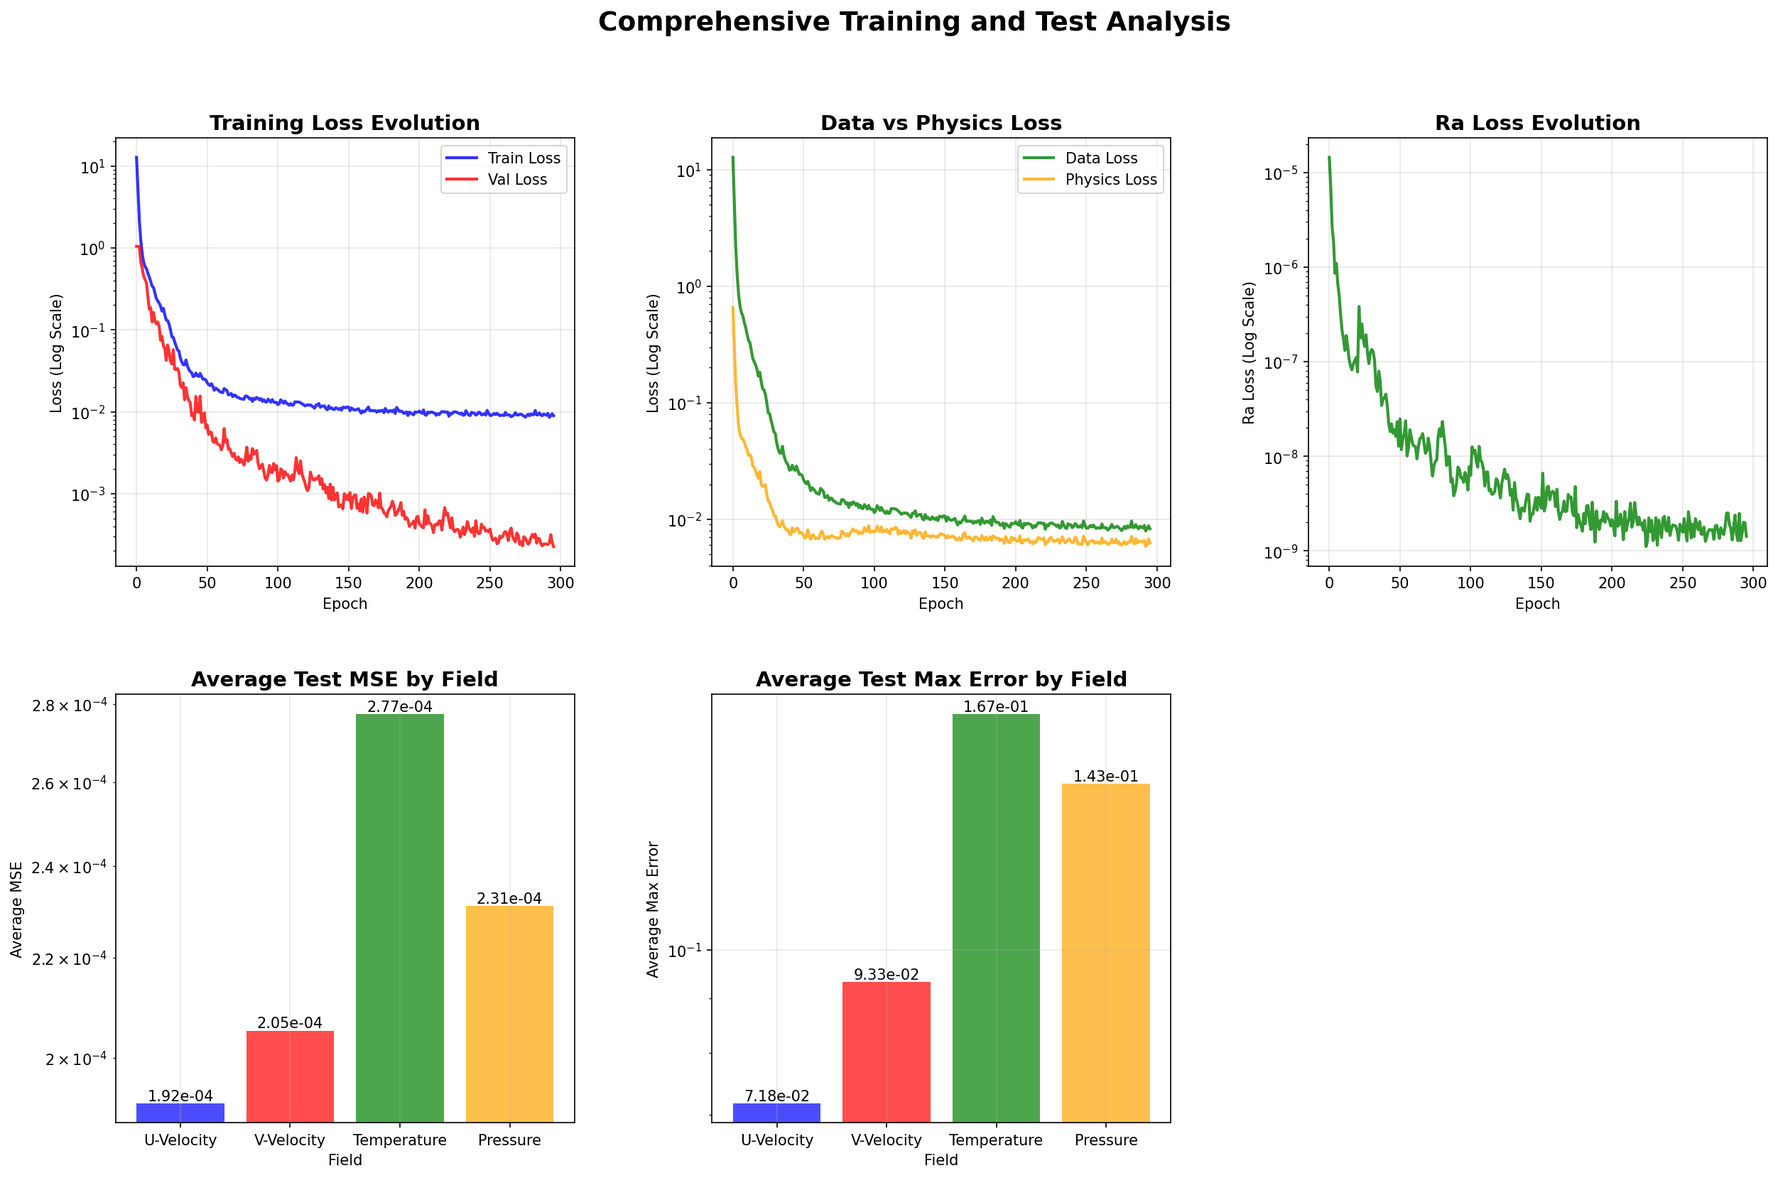
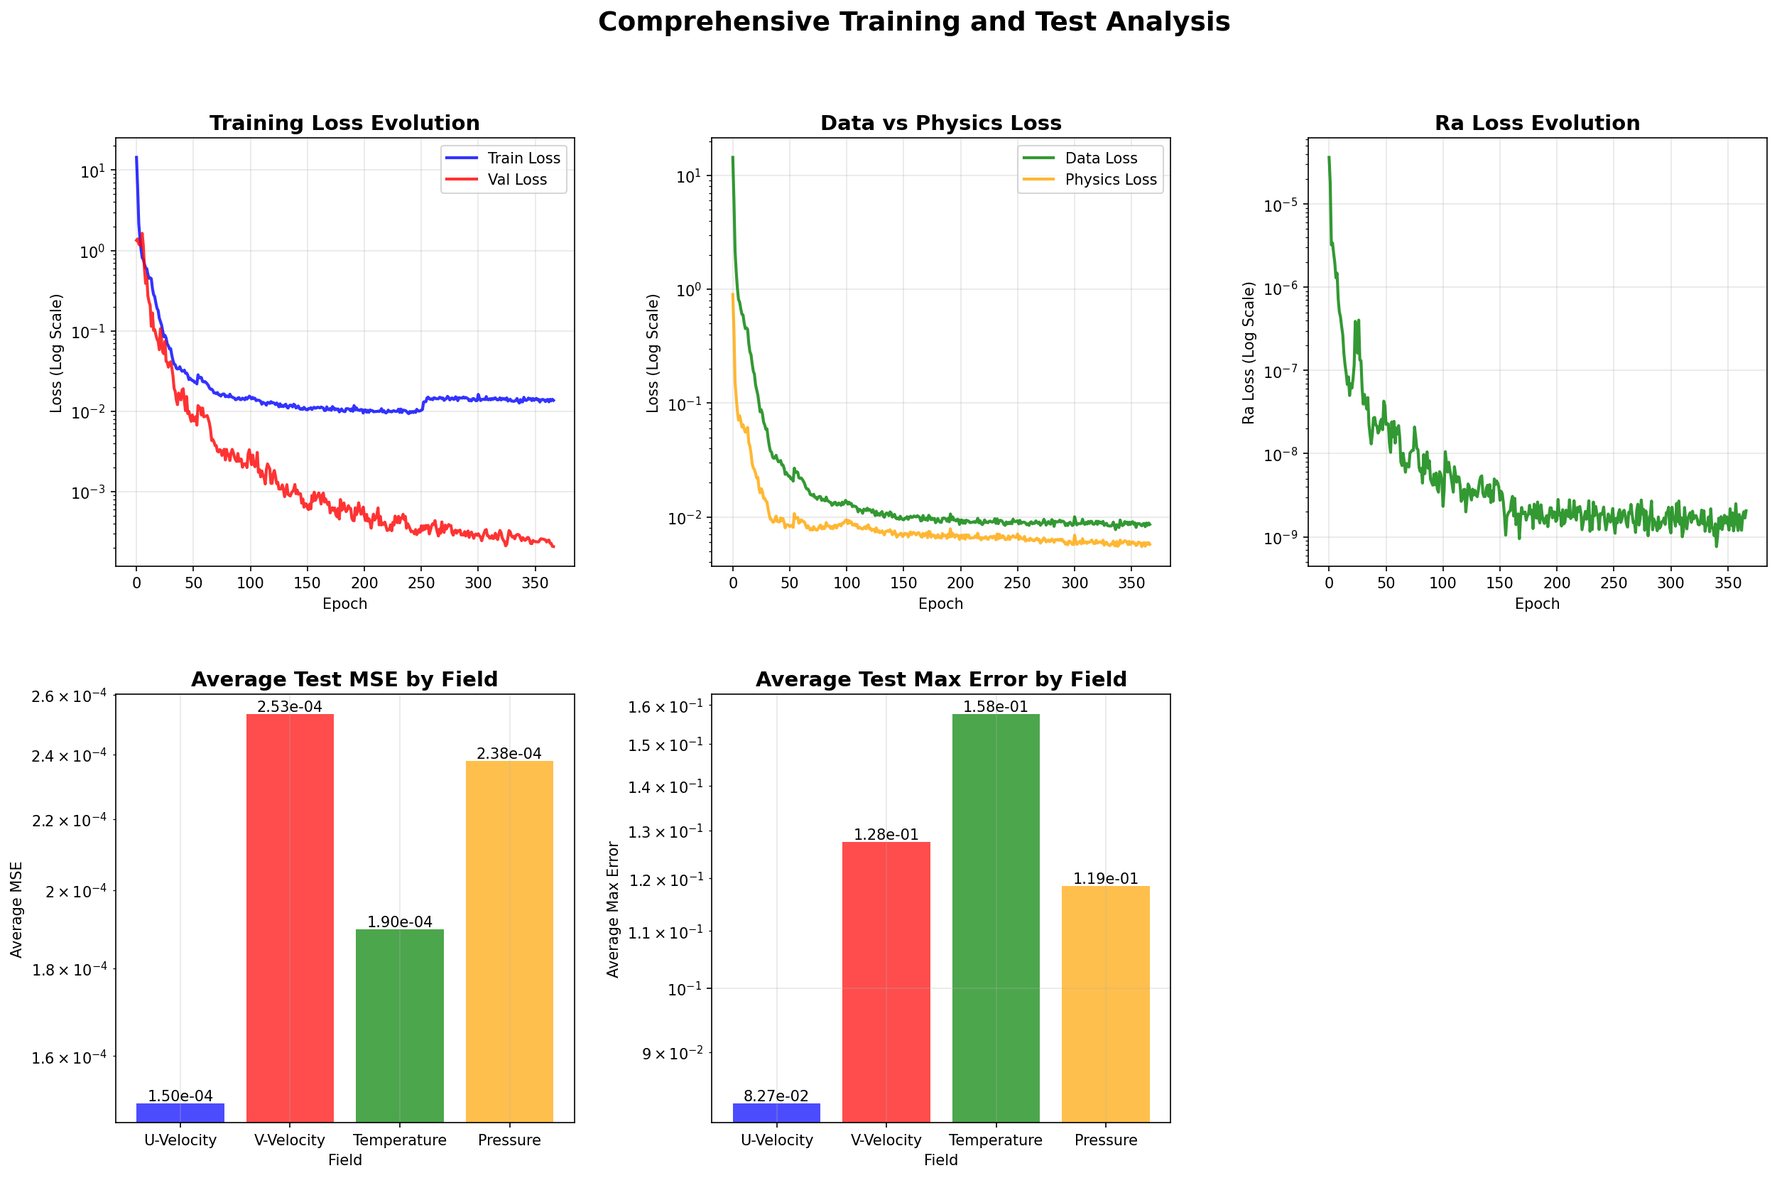
update

diff --git a/train_complete_physics.py b/train_complete_physics.py
@@ -31,7 +31,7 @@ def train_complete_physics_model():
     # Configuration
     device = torch.device('cuda' if torch.cuda.is_available() else 'cpu')
     config = {
-        'num_epochs': 300,
+        'num_epochs': 500,
         'batch_size': 128,
         'learning_rate': 1e-3,  # Very conservative
         'save_interval': 50,
@@ -45,10 +45,23 @@ def train_complete_physics_model():
         'fraction_train': 0.7,  # 70% for training
         'fraction_val': 0.2,    # 20% for validation
         'fraction_test': 0.1,   # 10% for testing
+        # Dynamic weight adjustment parameters
+        'dynamic_weights': True,          # Enable dynamic weight adjustment
+        'weight_adjust_interval': 10,     # Adjust weights every N batches
+        'weight_adjust_warmup': 250,      # Start adjusting after N epochs
+        'min_ratio_threshold': 0.2,       # Minimum ratio before adjustment (5x difference)
+        'max_boost_factor': 10.0,         # Maximum factor to boost any weight
     }
     
     print(f"Device: {device}")
     print(f"Physics weight: {config['physics_weight_initial']} → {config['physics_weight_max']}")
+    print(f"Dynamic weight adjustment: {'Enabled' if config['dynamic_weights'] else 'Disabled'}")
+    if config['dynamic_weights']:
+        print(f"  Adjustment parameters:")
+        print(f"    - Warmup epochs: {config['weight_adjust_warmup']}")
+        print(f"    - Adjustment interval: every {config['weight_adjust_interval']} batches")
+        print(f"    - Ratio threshold: {config['min_ratio_threshold']} (1/{1/config['min_ratio_threshold']:.0f} = {1/config['min_ratio_threshold']:.0f}x)")
+        print(f"    - Max boost factor: {config['max_boost_factor']}x")
     
     # Create directories
     os.makedirs('complete_physics_results', exist_ok=True)
@@ -132,7 +145,7 @@ def train_complete_physics_model():
     history = {
         'train_losses': [], 'val_losses': [], 'physics_losses': [], 'data_losses': [],
         'continuity': [], 'momentum_x': [], 'momentum_y': [], 'energy': [],
-        'predicted_ra': [], 'ra_loss': []
+        'unweighted_physics': [], 'predicted_ra': [], 'ra_loss': []
     }
     best_val_loss = float('inf')
     worst_val_loss = 0.0
@@ -164,11 +177,11 @@ def train_complete_physics_model():
         epoch_stats = {
             'train_loss': 0.0, 'physics_loss': 0.0, 'data_loss': 0.0, 'ra_loss': 0.0,
             'continuity': 0.0, 'momentum_x': 0.0, 'momentum_y': 0.0, 'energy': 0.0,
-            'predicted_ra': 0.0, 'batches': 0
+            'unweighted_physics': 0.0, 'predicted_ra': 0.0, 'batches': 0
         }
         
         progress_bar = tqdm(train_loader, desc=f'Epoch {epoch+1:3d}')
-        for input_state, target_state, _ in progress_bar:
+        for batch_idx, (input_state, target_state, _) in enumerate(progress_bar):
             input_state = input_state.to(device)
             target_state = target_state.to(device)
             
@@ -213,6 +226,29 @@ def train_complete_physics_model():
                         # Ensure physics loss is a scalar tensor
                         if hasattr(loss_physics_total, 'dim') and loss_physics_total.dim() > 0:
                             loss_physics_total = loss_physics_total.mean()
+                        
+                        # Dynamic weight adjustment: check if temperature (energy) loss is significantly larger
+                        if (config['dynamic_weights'] and 
+                            epoch > config['weight_adjust_warmup'] and 
+                            batch_idx % config['weight_adjust_interval'] == 0):
+                            try:
+                                weight_adjusted = physics_loss.adjust_weights_dynamically(
+                                    physics_result, 
+                                    min_ratio_threshold=config['min_ratio_threshold'],
+                                    max_boost_factor=config['max_boost_factor']
+                                )
+                                if weight_adjusted:
+                                    # Recalculate physics loss with new weights
+                                    if use_predicted_ra:
+                                        physics_result = physics_loss(input_state, prediction[:, :4], validation_mode=True, ra_scalar=ra_scalar)
+                                    else:
+                                        physics_result = physics_loss(input_state, prediction[:, :4], validation_mode=True)
+                                    loss_physics_total = physics_result['total']
+                                    if hasattr(loss_physics_total, 'dim') and loss_physics_total.dim() > 0:
+                                        loss_physics_total = loss_physics_total.mean()
+                            except Exception as e:
+                                print(f"Warning - Dynamic weight adjustment failed: {e}")
+                        
                         # Add physics loss to total
                         total_loss = config['data_weight'] * loss_data + physics_weight * loss_physics_total
                     else:
@@ -238,18 +274,53 @@ def train_complete_physics_model():
                 epoch_stats['data_loss'] += loss_data.item()
                 epoch_stats['ra_loss'] += loss_ra.item()
                 
-                # Add physics component stats if available
+                # Add physics component stats if available (store both weighted and unweighted)
                 if physics_result is not None and isinstance(physics_result, dict):
                     try:
+                        # Get unweighted physics loss for comparison
+                        unweighted_total = 0.0
                         for key in ['continuity', 'momentum_x', 'momentum_y', 'energy']:
                             if key in physics_result:
                                 value = physics_result[key]
                                 if hasattr(value, 'dim') and value.dim() == 0:
                                     epoch_stats[key] += value.item()
+                                    # Calculate unweighted contribution
+                                    if key == 'continuity':
+                                        unweighted_total += value.item() / physics_loss.w_continuity
+                                    elif key == 'momentum_x':
+                                        unweighted_total += value.item() / physics_loss.w_momentum_x
+                                    elif key == 'momentum_y':
+                                        unweighted_total += value.item() / physics_loss.w_momentum_y
+                                    elif key == 'energy':
+                                        unweighted_total += value.item() / physics_loss.w_energy
                                 elif hasattr(value, 'mean'):
                                     epoch_stats[key] += value.mean().item()
+                                    # Calculate unweighted contribution
+                                    mean_val = value.mean().item()
+                                    if key == 'continuity':
+                                        unweighted_total += mean_val / physics_loss.w_continuity
+                                    elif key == 'momentum_x':
+                                        unweighted_total += mean_val / physics_loss.w_momentum_x
+                                    elif key == 'momentum_y':
+                                        unweighted_total += mean_val / physics_loss.w_momentum_y
+                                    elif key == 'energy':
+                                        unweighted_total += mean_val / physics_loss.w_energy
                                 else:
                                     epoch_stats[key] += float(value)
+                                    if key == 'continuity':
+                                        unweighted_total += float(value) / physics_loss.w_continuity
+                                    elif key == 'momentum_x':
+                                        unweighted_total += float(value) / physics_loss.w_momentum_x
+                                    elif key == 'momentum_y':
+                                        unweighted_total += float(value) / physics_loss.w_momentum_y
+                                    elif key == 'energy':
+                                        unweighted_total += float(value) / physics_loss.w_energy
+                        
+                        # Store unweighted physics loss
+                        if 'unweighted_physics' not in epoch_stats:
+                            epoch_stats['unweighted_physics'] = 0.0
+                        epoch_stats['unweighted_physics'] += unweighted_total
+                        
                     except Exception as e:
                         print(f"Warning - Error extracting physics components: {e}")
                 
@@ -316,6 +387,7 @@ def train_complete_physics_model():
         history['momentum_x'].append(epoch_stats['momentum_x'])
         history['momentum_y'].append(epoch_stats['momentum_y'])
         history['energy'].append(epoch_stats['energy'])
+        history['unweighted_physics'].append(epoch_stats['unweighted_physics'])
         history['predicted_ra'].append(epoch_stats['predicted_ra'])
         history['ra_loss'].append(epoch_stats['ra_loss'])
         
@@ -328,16 +400,16 @@ def train_complete_physics_model():
         
         # Print progress with timing information
         print(f"\nEpoch {epoch+1:3d}/{config['num_epochs']} ({epoch_time:.1f}s | Avg: {avg_epoch_time:.1f}s | Total: {total_elapsed/60:.1f}m | ETA: {estimated_remaining/60:.1f}m)")
-        print(f"  Train: {epoch_stats['train_loss']:.6f} (Data: {epoch_stats['data_loss']:.6f}, Physics: {epoch_stats['physics_loss']:.6f}, Ra: {epoch_stats['ra_loss']:.6f})")
+        print(f"  Train: {epoch_stats['train_loss']:.6f} (Data: {epoch_stats['data_loss']:.6f}, Physics: {epoch_stats['physics_loss']:.6f} [Raw: {epoch_stats['unweighted_physics']:.6f}], Ra: {epoch_stats['ra_loss']:.6f})")
         print(f"  Val: {avg_val_loss:.6f}, LR: {current_lr:.2e}, Physics Weight: {physics_weight:.6f}")
         print(f"  Predicted Ra: {epoch_stats['predicted_ra']:.6f} (Target: {dataset_params['Ra']:.6f}, Val: {avg_val_ra:.6f})")
         
         if epoch % 10 == 0:
-            print(f"  Physics Components:")
-            print(f"     Continuity: {epoch_stats['continuity']:.6f}")
-            print(f"     Momentum X: {epoch_stats['momentum_x']:.6f}")
-            print(f"     Momentum Y: {epoch_stats['momentum_y']:.6f}")
-            print(f"     Energy: {epoch_stats['energy']:.6f}")
+            print(f"  Physics Components (with weights):")
+            print(f"     Continuity: {epoch_stats['continuity']:.6f} (w={physics_loss.w_continuity:.1f})")
+            print(f"     Momentum X: {epoch_stats['momentum_x']:.6f} (w={physics_loss.w_momentum_x:.1f})")
+            print(f"     Momentum Y: {epoch_stats['momentum_y']:.6f} (w={physics_loss.w_momentum_y:.1f})")
+            print(f"     Energy: {epoch_stats['energy']:.6f} (w={physics_loss.w_energy:.1f})")
         
         # Track worst validation loss and corresponding Ra
         if avg_val_loss > worst_val_loss:

diff --git a/accurate_physics_loss.py b/accurate_physics_loss.py
@@ -65,11 +65,11 @@ class AccuratePhysicsLoss(nn.Module):
         # Calculate characteristic scales for physics loss normalization
         self._calculate_characteristic_scales()
         
-        # Loss weighting
+        # Loss weighting - Start with higher energy weight for temperature focus
         self.w_continuity = 1.0
         self.w_momentum_x = 1.0
         self.w_momentum_y = 1.0
-        self.w_energy = 1.0
+        self.w_energy = 1.0  # Start with 2x weight for energy (temperature) equation
         
         # Analysis
         self.enable_analysis = enable_analysis
@@ -474,6 +474,91 @@ class AccuratePhysicsLoss(nn.Module):
         print(f"Updated loss weights: continuity={self.w_continuity:.3f}, "
               f"momentum_x={self.w_momentum_x:.3f}, momentum_y={self.w_momentum_y:.3f}, "
               f"energy={self.w_energy:.3f}")
+    
+    def adjust_weights_dynamically(self, loss_values, min_ratio_threshold=0.1, max_boost_factor=5.0):
+        """
+        Dynamically adjust loss weights based on relative magnitudes.
+        If energy (temperature) loss is significantly larger than other losses,
+        increase its weight to balance the training.
+        
+        Args:
+            loss_values: dict with keys 'continuity', 'momentum_x', 'momentum_y', 'energy'
+            min_ratio_threshold: minimum ratio before adjustment (default 0.1 = 1 order of magnitude)
+            max_boost_factor: maximum factor to boost any weight
+        """
+        # Extract individual loss values
+        continuity_loss = float(loss_values['continuity'].detach().cpu())
+        momentum_x_loss = float(loss_values['momentum_x'].detach().cpu())
+        momentum_y_loss = float(loss_values['momentum_y'].detach().cpu())
+        energy_loss = float(loss_values['energy'].detach().cpu())
+        
+        adjustment_made = False
+        
+        # Check for energy (temperature) loss imbalance - more aggressive approach
+        other_losses = [continuity_loss, momentum_x_loss, momentum_y_loss]
+        avg_other_loss = np.mean(other_losses)
+        
+        if avg_other_loss > 0 and energy_loss > 0:
+            # Calculate the ratio of energy loss to average other losses
+            energy_to_others_ratio = energy_loss / avg_other_loss
+            
+            # More aggressive threshold - start adjusting at 2x difference instead of 5x
+            if energy_to_others_ratio > (1.0 / (min_ratio_threshold * 2.5)):  # Start at 2x difference
+                # Very aggressive adjustment factor for temperature
+                adjustment_factor = min(max_boost_factor, energy_to_others_ratio ** 0.3)  # Even more aggressive than 0.4
+                
+                # Increase energy weight with higher baseline boost
+                baseline_boost = 1.5  # Always apply at least 1.5x boost when triggered
+                new_energy_weight = min(max_boost_factor, self.w_energy * max(baseline_boost, adjustment_factor))
+                
+                # Apply the new weight
+                old_energy_weight = self.w_energy
+                self.w_energy = new_energy_weight
+                
+                print(f"AGGRESSIVE Energy weight adjustment applied:")
+                print(f"  Energy loss: {energy_loss:.2e}, Avg other losses: {avg_other_loss:.2e}")
+                print(f"  Ratio: {energy_to_others_ratio:.2f}")
+                print(f"  Energy weight: {old_energy_weight:.3f} -> {new_energy_weight:.3f}")
+                
+                adjustment_made = True
+            
+            # Additional check: if energy loss is still significantly high relative to total, apply extra boost
+            total_physics_loss = continuity_loss + momentum_x_loss + momentum_y_loss + energy_loss
+            energy_fraction = energy_loss / total_physics_loss if total_physics_loss > 0 else 0
+            
+            if energy_fraction > 0.4 and self.w_energy < max_boost_factor:  # If energy takes >40% of total loss
+                extra_boost = min(1.5, max_boost_factor / self.w_energy)
+                old_energy_weight = self.w_energy
+                self.w_energy = min(max_boost_factor, self.w_energy * extra_boost)
+                
+                print(f"EXTRA Energy boost applied (fraction={energy_fraction:.1%}):")
+                print(f"  Energy weight: {old_energy_weight:.3f} -> {self.w_energy:.3f}")
+                
+                adjustment_made = True
+        
+        # Additional check: boost momentum equations for pressure-related terms
+        # If momentum losses are very small compared to energy, boost them too
+        momentum_avg = np.mean([momentum_x_loss, momentum_y_loss])
+        if momentum_avg > 0 and energy_loss > 0:
+            momentum_to_energy_ratio = momentum_avg / energy_loss
+            
+            # If momentum losses are much smaller than energy loss, boost them
+            if momentum_to_energy_ratio < min_ratio_threshold:
+                boost_factor = min(2.0, np.sqrt(1.0 / momentum_to_energy_ratio))
+                
+                old_momentum_x = self.w_momentum_x
+                old_momentum_y = self.w_momentum_y
+                
+                self.w_momentum_x = min(max_boost_factor, self.w_momentum_x * boost_factor)
+                self.w_momentum_y = min(max_boost_factor, self.w_momentum_y * boost_factor)
+                
+                print(f"Momentum weight boost applied:")
+                print(f"  Momentum X weight: {old_momentum_x:.3f} -> {self.w_momentum_x:.3f}")
+                print(f"  Momentum Y weight: {old_momentum_y:.3f} -> {self.w_momentum_y:.3f}")
+                
+                adjustment_made = True
+        
+        return adjustment_made
     
     def get_characteristic_scales(self):
         """Return the computed characteristic scales for analysis."""

diff --git a/create_training_plots.py b/create_training_plots.py
@@ -20,7 +20,7 @@ def load_checkpoint_history(checkpoint_path):
     if not os.path.exists(checkpoint_path):
         raise FileNotFoundError(f"Checkpoint not found: {checkpoint_path}")
     
-    checkpoint = torch.load(checkpoint_path, map_location='cpu')
+    checkpoint = torch.load(checkpoint_path, map_location='cpu', weights_only=False)
     
     if 'history' not in checkpoint:
         raise ValueError("No training history found in checkpoint")
@@ -35,7 +35,7 @@ def load_checkpoint_history(checkpoint_path):
 def load_trained_model(checkpoint_path, device):
     """Load trained model from checkpoint"""
     
-    checkpoint = torch.load(checkpoint_path, map_location=device)
+    checkpoint = torch.load(checkpoint_path, map_location=device, weights_only=False)
     
     # Try to determine model architecture
     model_keys = list(checkpoint['model_state_dict'].keys())
@@ -114,20 +114,27 @@ def evaluate_test_metrics(model, dataset, device, max_samples=None):
             # Calculate physics loss (use input and prediction as temporal pair)
             try:
                 physics_result = physics_loss_fn(input_state, prediction, validation_mode=True)
-                if isinstance(physics_result, dict):
-                    # Sum up all physics components
+                if isinstance(physics_result, dict) and 'total' in physics_result:
+                    # Use the 'total' field directly
+                    total_physics = physics_result['total']
+                elif isinstance(physics_result, dict):
+                    # Sum up only the physics loss components (skip 'residuals' dict)
                     total_physics = 0.0
-                    for component_loss in physics_result.values():
-                        if torch.is_tensor(component_loss):
+                    for key, component_loss in physics_result.items():
+                        if key != 'residuals' and torch.is_tensor(component_loss):
                             total_physics += component_loss
-                        else:
+                        elif key != 'residuals' and isinstance(component_loss, (int, float)):
                             total_physics += component_loss
                 elif torch.is_tensor(physics_result):
                     total_physics = physics_result
                 else:
                     total_physics = torch.tensor(physics_result)
                 
-                physics_losses.append(float(total_physics.cpu().item()))
+                # Ensure we have a scalar value
+                if torch.is_tensor(total_physics):
+                    physics_losses.append(float(total_physics.cpu().item()))
+                else:
+                    physics_losses.append(float(total_physics))
             except Exception as e:
                 # Fallback: skip physics loss calculation if it fails
                 print(f"Warning: Physics loss calculation failed: {e}")
@@ -184,9 +191,9 @@ def create_comprehensive_plots(history, mse_values, max_error_values, physics_lo
     
     # 2. Data Loss vs Physics Loss (Top Center)
     ax2 = fig.add_subplot(gs[0, 1])
-    if 'data_losses' in history and 'physics_losses' in history:
+    if 'data_losses' in history and 'unweighted_physics' in history:
         ax2.semilogy(epochs, history['data_losses'], 'g-', linewidth=2, alpha=0.8, label='Data Loss')
-        ax2.semilogy(epochs, history['physics_losses'], 'orange', linewidth=2, alpha=0.8, label='Physics Loss')
+        ax2.semilogy(epochs, history['unweighted_physics'], 'orange', linewidth=2, alpha=0.8, label='Physics Loss')
         ax2.set_title('Data vs Physics Loss', fontsize=14, fontweight='bold')
         ax2.set_xlabel('Epoch')
         ax2.set_ylabel('Loss (Log Scale)')

diff --git a/create_complete_animation.py b/create_complete_animation.py
@@ -20,7 +20,7 @@ def load_trained_model(checkpoint_path, device):
     if not os.path.exists(checkpoint_path):
         raise FileNotFoundError(f"Checkpoint not found: {checkpoint_path}")
     
-    checkpoint = torch.load(checkpoint_path, map_location=device)
+    checkpoint = torch.load(checkpoint_path, map_location=device, weights_only=False)
     
     # Try to determine model architecture from checkpoint structure
     model_keys = list(checkpoint['model_state_dict'].keys())
